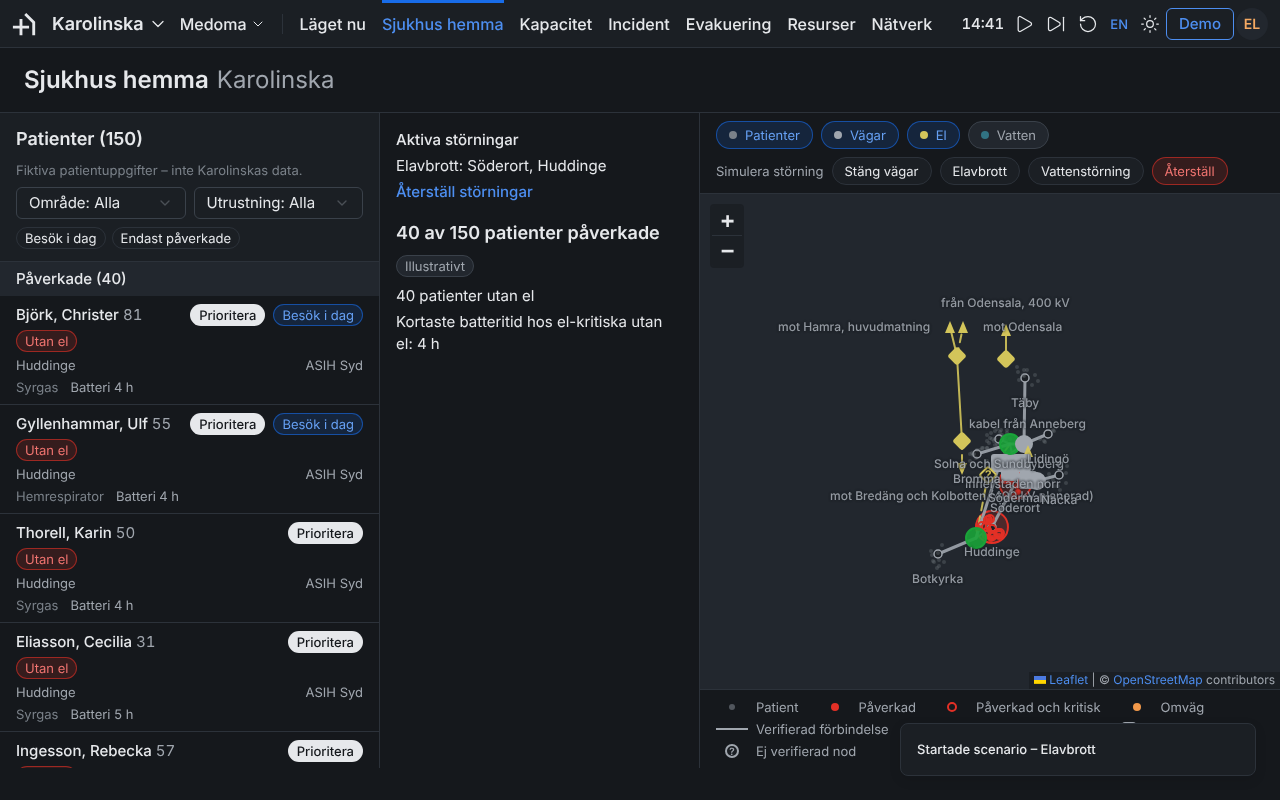
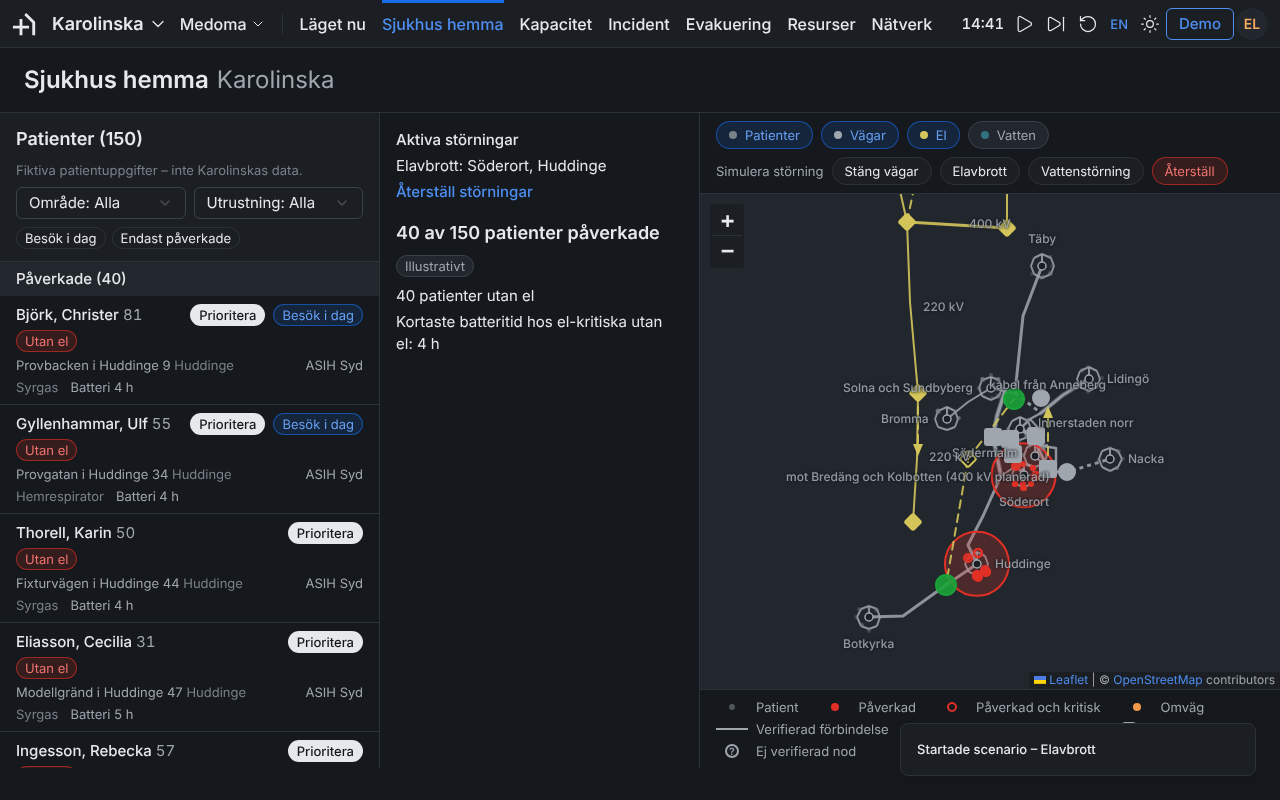
feat(geo): batch 9 – patients on streets, polish
Street and house number in the patient list, ODbL attribution with OpenStreetMap data, the map
fits the zones with 24 px padding and hand-placed zone labels, screenshots retaken, README step 6
describes the real map and the fetch commands.

Claude-Session: https://claude.ai/code/session_01EDzeoYWw7eD9LnFvtsjXbC

diff --git a/src/components/NodeMap.tsx b/src/components/NodeMap.tsx
@@ -7,7 +7,8 @@ import { t, tm } from '@/lib/i18n';
 import { fmt } from '@/lib/format';
 import { cssColor, useTheme } from '@/lib/theme';
 import { cn } from '@/lib/utils';
-import { HomeMapLayers, homeFitPoints, type HomeOverlay } from './HomeMapLayers';
+import { HomeMapLayers, type HomeOverlay } from './HomeMapLayers';
+import { homeFitPoints } from '@/lib/home-geo';
 
 interface NodeMapProps {
   nodes: CareNode[];
@@ -16,6 +17,10 @@ interface NodeMapProps {
   center?: [number, number];
   zoom?: number;
   className?: string;
+  /** Pixels of padding when the map fits its points; 40 by default, 24 on Hospital at Home. */
+  fitPadding?: number;
+  /** Extra attribution after the tile attribution (the ODbL text for OpenStreetMap data). */
+  attributionExtra?: string;
   /** Wheel zoom; off on the pages that scroll, on for Hospital at Home where the inner-city nodes are close together. */
   scrollWheelZoom?: boolean;
   onSelect?: (nodeId: string) => void;
@@ -23,7 +28,7 @@ interface NodeMapProps {
   home?: HomeOverlay;
 }
 
-function FitBounds({ nodes, extra, center, zoom }: { nodes: CareNode[]; extra?: Array<[number, number]>; center?: [number, number]; zoom?: number }) {
+function FitBounds({ nodes, extra, center, zoom, padding }: { nodes: CareNode[]; extra?: Array<[number, number]>; center?: [number, number]; zoom?: number; padding: number }) {
   const map = useMap();
   useEffect(() => {
     if (center) {
@@ -39,7 +44,7 @@ function FitBounds({ nodes, extra, center, zoom }: { nodes: CareNode[]; extra?: 
         [Math.min(...lats), Math.min(...lngs)],
         [Math.max(...lats), Math.max(...lngs)],
       ],
-      { padding: [40, 40], animate: false },
+      { padding: [padding, padding], animate: false },
     );
     // Fit once per node set size; later node additions re-fit.
     // eslint-disable-next-line react-hooks/exhaustive-deps
@@ -51,7 +56,7 @@ function FitBounds({ nodes, extra, center, zoom }: { nodes: CareNode[]; extra?: 
  * DESIGN-KS.md § 8 maps: OpenStreetMap tiles, circle markers (radius 10) coloured by status and labelled
  * with the short name; ASIH as a soft 25 km circle centred on Stockholm with its label at the top.
  */
-export function NodeMap({ nodes, selectedId, lineFrom, center, zoom, className, scrollWheelZoom = false, onSelect, home }: NodeMapProps) {
+export function NodeMap({ nodes, selectedId, lineFrom, center, zoom, className, scrollWheelZoom = false, fitPadding = 40, attributionExtra, onSelect, home }: NodeMapProps) {
   // Leaflet paints SVG paths with literal colours: resolve the tokens for the current theme.
   useTheme((s) => s.theme);
   const PRIMARY = cssColor('--color-primary');
@@ -60,11 +65,11 @@ export function NodeMap({ nodes, selectedId, lineFrom, center, zoom, className, 
   const areas = nodes.filter((n) => n.radiusKm !== undefined);
   const selected = nodes.find((n) => n.id === selectedId);
   const from = nodes.find((n) => n.id === lineFrom);
-  const fitExtra = useMemo(() => (home ? homeFitPoints(home, markers) : undefined), [home, markers]);
+  const fitExtra = useMemo(() => (home ? homeFitPoints(home) : undefined), [home]);
   return (
     <MapContainer center={center ?? [59.35, 18.0]} zoom={zoom ?? 9} scrollWheelZoom={scrollWheelZoom} className={cn('h-full w-full', className)} attributionControl>
-      <TileLayer attribution={t('EVAC.map.attribution')} url="https://tile.openstreetmap.org/{z}/{x}/{y}.png" />
-      <FitBounds nodes={markers} extra={fitExtra} center={center} zoom={zoom} />
+      <TileLayer key={attributionExtra ?? ''} attribution={attributionExtra ? `${t('EVAC.map.attribution')} | ${attributionExtra}` : t('EVAC.map.attribution')} url="https://tile.openstreetmap.org/{z}/{x}/{y}.png" />
+      <FitBounds nodes={home ? [] : markers} extra={fitExtra} center={center} zoom={zoom} padding={fitPadding} />
       {areas.map((n) => {
         const isSelected = n.id === selectedId;
         return (

diff --git a/src/components/HomeMapLayers.tsx b/src/components/HomeMapLayers.tsx
@@ -4,7 +4,7 @@ import { Circle, CircleMarker, Marker, Polyline, Tooltip, useMapEvents } from 'r
 import type { CareNode, HomePatient, HomeZone, InfraLayer, InfraLink, InfraNode } from '@/data/types';
 import type { HomeLayerKey, HomeMode } from '@/data/store-home';
 import { lt, t, tm } from '@/lib/i18n';
-import { isSchematic, linkedVertices, offmapEnd, offmapRotation, offmapSlots, vertexPositions, type LatLng } from '@/lib/home-geo';
+import { isSchematic, linkedVertices, offmapEnd, offmapRotation, offmapSlots, vertexPositions } from '@/lib/home-geo';
 import { cssColor } from '@/lib/theme';
 import type { RoadCollection, RoadProps } from '@/lib/roadGraph';
 import { RoadsLayer } from './RoadsLayer';
@@ -50,24 +50,21 @@ export const LAYER_TOKEN: Record<InfraLayer, string> = {
   roads: '--color-text-secondary',
 };
 
+// Zone labels sit on alternating sides of their point so that the zones in the dense middle do not cover each other.
+const ZONE_LABEL: Record<string, { direction: 'left' | 'right' | 'top' | 'bottom'; offset: [number, number] }> = {
+  solna: { direction: 'left', offset: [-6, 0] },
+  innerstaden: { direction: 'right', offset: [6, -6] },
+  bromma: { direction: 'left', offset: [-6, 0] },
+  sodermalm: { direction: 'left', offset: [-6, -3] },
+  soderort: { direction: 'bottom', offset: [0, 6] },
+  huddinge: { direction: 'right', offset: [6, 0] },
+  botkyrka: { direction: 'bottom', offset: [0, 6] },
+  nacka: { direction: 'right', offset: [6, 0] },
+  lidingo: { direction: 'right', offset: [6, 0] },
+  taby: { direction: 'top', offset: [0, -6] },
+};
 const DASH_SCHEMATIC = '8 6';
 const DASH_DOTTED = '2 6';
-
-/** Every point the page should fit in view: zones with their radius, infrastructure markers, sites and arrow ends. */
-export function homeFitPoints(overlay: HomeOverlay, sites: CareNode[]): LatLng[] {
-  const points: LatLng[] = sites.map((s) => [s.lat, s.lng]);
-  for (const z of overlay.zones) points.push([z.lat, z.lng]);
-  for (const n of overlay.infraNodes) if (!n.noMarker) points.push([n.lat, n.lng]);
-  for (const l of overlay.powerLines ?? []) points.push(...l.positions);
-  const positions = vertexPositions(sites, overlay.zones, overlay.infraNodes);
-  const slots = offmapSlots(overlay.infraLinks);
-  for (const l of overlay.infraLinks) {
-    const from = positions.get(l.a);
-    const slot = slots.get(l.id);
-    if (l.offmap && from && slot) points.push(offmapEnd(from, l.offmap.dir, slot.k, slot.n));
-  }
-  return points;
-}
 
 const iconCache = new Map<string, L.DivIcon>();
 
@@ -226,7 +223,7 @@ export function HomeMapLayers({ overlay, sites }: HomeMapLayersProps) {
             pathOptions={{ color: NEUTRAL, weight: 1.5, fillColor: SURFACE, fillOpacity: dim ? 0.3 : 1, opacity: dim ? 0.3 : 1 }}
             interactive={false}
           >
-            <Tooltip permanent direction="bottom" offset={[0, 4]} className={dim ? 'home-map-label home-map-label-dim' : 'home-map-label'}>
+            <Tooltip permanent direction={(ZONE_LABEL[z.id] ?? { direction: 'bottom' }).direction} offset={(ZONE_LABEL[z.id] ?? { offset: [0, 4] }).offset} className={dim ? 'home-map-label home-map-label-dim' : 'home-map-label'}>
               {lt(z.name)}
             </Tooltip>
           </CircleMarker>

diff --git a/src/data/packs/home-patients.test.ts b/src/data/packs/home-patients.test.ts
@@ -1,0 +1,62 @@
+import { beforeAll, describe, expect, it } from 'vitest';
+import { KAROLINSKA_PACK as pack } from './karolinska';
+import { loadGeoData, type GeoData } from '@/lib/geoData';
+import { homeFitPoints } from '@/lib/home-geo';
+
+let geo: GeoData;
+beforeAll(async () => {
+  geo = await loadGeoData();
+});
+
+const km = (aLat: number, aLng: number, bLat: number, bLng: number) => Math.hypot((bLat - aLat) * 111.32, (bLng - aLng) * 111.32 * Math.cos((aLat * Math.PI) / 180));
+
+describe('patients on streets (SPEC.md § 12.5)', () => {
+  it('gives every patient a street and a house number of 1–60', () => {
+    for (const p of pack.homePatients) {
+      expect(p.street.length, p.id).toBeGreaterThan(0);
+      expect(Number.isInteger(p.houseNo) && p.houseNo >= 1 && p.houseNo <= 60, p.id).toBe(true);
+    }
+  });
+
+  it('puts all 150 on a vertex of a street of that name within the zone radius', () => {
+    expect(pack.homePatients).toHaveLength(150);
+    const streets = geo.streets.features;
+    for (const p of pack.homePatients) {
+      const zone = pack.homeZones.find((z) => z.id === p.zone)!;
+      expect(km(zone.lat, zone.lng, p.lat, p.lng), p.id).toBeLessThanOrEqual(zone.radiusKm);
+      const onStreet = streets.some((s) => s.properties.name === p.street && s.geometry.coordinates.some(([lng, lat]) => lat === p.lat && lng === p.lng));
+      expect(onStreet, `${p.id} on ${p.street}`).toBe(true);
+    }
+  });
+
+  it('places each patient in the zone whose centre is nearest, so that no patient lives in a neighbouring zone', () => {
+    for (const p of pack.homePatients) {
+      const own = pack.homeZones.find((z) => z.id === p.zone)!;
+      for (const z of pack.homeZones) expect(km(p.lat, p.lng, own.lat, own.lng), `${p.id} vs ${z.id}`).toBeLessThanOrEqual(km(p.lat, p.lng, z.lat, z.lng) + 1e-6);
+    }
+  });
+
+  it('keeps the attributes the earlier tests pin: 20 Huddinge patients, a visit share and el-critical patients', () => {
+    expect(pack.homePatients.filter((p) => p.zone === 'huddinge')).toHaveLength(20);
+    expect(pack.homePatients.filter((p) => p.visitToday)).toHaveLength(66);
+    expect(pack.homePatients.filter((p) => p.zone === 'huddinge' && p.elCritical).map((p) => p.batteryHours)).toContain(4);
+  });
+});
+
+describe('the map fits the zones (SPEC.md § 12.6 batch 9)', () => {
+  it('fits the box around every zone circle and nothing else', () => {
+    const pts = homeFitPoints({ zones: pack.homeZones });
+    expect(pts).toHaveLength(pack.homeZones.length * 2);
+    const lats = pts.map((p) => p[0]);
+    const lngs = pts.map((p) => p[1]);
+    for (const z of pack.homeZones) {
+      expect(Math.min(...lats)).toBeLessThanOrEqual(z.lat - z.radiusKm / 111.32 + 1e-9);
+      expect(Math.max(...lats)).toBeGreaterThanOrEqual(z.lat + z.radiusKm / 111.32 - 1e-9);
+      expect(Math.min(...lngs)).toBeLessThanOrEqual(z.lng);
+      expect(Math.max(...lngs)).toBeGreaterThanOrEqual(z.lng);
+    }
+    // Täby is the northernmost zone, Botkyrka the southernmost.
+    expect(Math.max(...lats)).toBeCloseTo(59.4451 + 2.5 / 111.32, 4);
+    expect(Math.min(...lats)).toBeCloseTo(59.1988 - 2.5 / 111.32, 4);
+  });
+});

diff --git a/src/modules/home/HomeMap.tsx b/src/modules/home/HomeMap.tsx
@@ -18,6 +18,8 @@ export function HomeMap({ impact, geo }: { impact: Impact; geo: GeoData | null }
   const nodes = useStore((s) => s.nodes);
   const home = useStore((s) => s.home);
   const infraNodes = home.infraNodes;
+  // The ODbL attribution is for OpenStreetMap data; the fixture that stands in for it is not OpenStreetMap's.
+  const osmData = geo !== null && Object.values(geo.source).includes('osm');
   const lines = useMemo(() => (geo ? powerLines(geo) : []), [geo]);
   const selectHomeNode = useStore((s) => s.selectHomeNode);
   const toggleBlockedNode = useStore((s) => s.toggleBlockedNode);
@@ -78,7 +80,7 @@ export function HomeMap({ impact, geo }: { impact: Impact; geo: GeoData | null }
         <ModeChips />
       </div>
       <div className="min-h-0 flex-1" role="region" aria-label={t('HOME.mapAria')}>
-        <NodeMap nodes={sites} home={overlay} scrollWheelZoom className="h-full" />
+        <NodeMap nodes={sites} home={overlay} scrollWheelZoom fitPadding={24} attributionExtra={osmData ? t('HOME.attribution') : undefined} className="h-full" />
       </div>
       <div className="border-t border-border px-4 py-2">
         <MapLegend />

diff --git a/src/lib/home-geo.ts b/src/lib/home-geo.ts
@@ -72,3 +72,17 @@ export function linkedVertices(id: string, links: InfraLink[]): Set<string> {
 export function linksOf(id: string, links: InfraLink[]): InfraLink[] {
   return links.filter((l) => l.a === id || l.b === id);
 }
+
+/**
+ * What the map fits on load (SPEC.md § 12.6 batch 9): the ten zones, each as the box around its circle. Sites, markers and
+ * arrow tips outside that are left to the user, so that the zone labels get the room.
+ */
+export function homeFitPoints(overlay: { zones: HomeZone[] }): LatLng[] {
+  const points: LatLng[] = [];
+  for (const z of overlay.zones) {
+    const dLat = z.radiusKm / 111.32;
+    const dLng = z.radiusKm / (111.32 * Math.cos((z.lat * Math.PI) / 180));
+    points.push([z.lat - dLat, z.lng - dLng], [z.lat + dLat, z.lng + dLng]);
+  }
+  return points;
+}

diff --git a/src/modules/home/HomePatientList.tsx b/src/modules/home/HomePatientList.tsx
@@ -63,7 +63,10 @@ function PatientRow({ p, row }: { p: HomePatient; row?: ImpactRow }) {
         </div>
       ) : null}
       <div className="flex items-center gap-3 text-small text-text-secondary">
-        <span className="truncate">{lt(zone.name)}</span>
+        <span className="truncate">
+          {p.street} {p.houseNo}
+          <span className="text-text-muted"> {lt(zone.name)}</span>
+        </span>
         <span className="ml-auto whitespace-nowrap">{p.team}</span>
       </div>
       <div className="text-small text-text-muted">

diff --git a/src/data/vocab.ts b/src/data/vocab.ts
@@ -735,6 +735,7 @@ export const sv = {
       tunnel: 'Tunnel',
     },
     unverified: 'Ej verifierad',
+    attribution: 'Väg- och elnätsdata © OpenStreetMap contributors, ODbL',
     legend: {
       title: 'Teckenförklaring',
       patient: 'Patient',
@@ -1654,6 +1655,7 @@ export const en: Vocab = {
       tunnel: 'Tunnel',
     },
     unverified: 'Not verified',
+    attribution: 'Road and power data © OpenStreetMap contributors, ODbL',
     legend: {
       title: 'Legend',
       patient: 'Patient',

diff --git a/README.md b/README.md
@@ -24,7 +24,9 @@ Kräver Node 22. Minsta bredd 1280 px. Kartunderlaget hämtas från OpenStreetMa
 | `src/data/packs/types.ts` | Domänmodellen och `DataPack`-gränssnittet. |
 | `src/data/vocab.ts` | Alla svenska UI-strängar och etiketter för enum-värden. |
 | `src/data/store*.ts` | Zustand-store med slices för incident, evakuering, resurser, nätverk, Läget nu och scenario. Varje tillståndsändring loggas med scenarioklockans tid. |
-| `src/lib/` | Rena moduler med tester: `forecast.ts`, `placement.ts`, `scenario.ts`, `flow.ts`, `capacity.ts`, `suggest.ts`, `parse.ts`, `figure.ts`, `format.ts`, `reachability.ts` (nåbarhet och påverkan för Sjukhus hemma). |
+| `src/data/packs/geo/` | OpenStreetMap-data (`roads.json`, `streets.json`, `power.json`, `water.json`) eller, tills de hämtats, fixturen. README där anger källa, datum och ODbL. |
+| `scripts/` | `fetch-osm.mjs` (Overpass till GeoJSON, `npm run fetch:osm`), `overpass/*.overpassql`, `generate-patients.mjs`, `make-geo-fixtures.mjs`. |
+| `src/lib/` | Rena moduler med tester: `forecast.ts`, `placement.ts`, `scenario.ts`, `flow.ts`, `capacity.ts`, `suggest.ts`, `parse.ts`, `figure.ts`, `format.ts`, `reachability.ts` och `roadGraph.ts` (väggraf, Dijkstra och påverkan för Sjukhus hemma), `osmNodes.ts`. |
 | `src/modules/` | Sidorna: `start`, `flow` (Läget nu), `home` (Sjukhus hemma), `capacity`, `incident`, `evacuation`, `resources`, `network`, `sources` (Källor), `scenario` (panelen). |
 | `DATA.md` | Läsbar källa för datapaketet med källförteckning (S1–S22). |
 | `SPEC.md`, `DESIGN.md`, `DESIGN-KS.md` | Beteende och utseende. |
@@ -106,14 +108,16 @@ Klicka **Starta kapitel** på Regional omfördelning. Nätverk öppnas för Regi
 
 ### Steg 6 – Sjukhus hemma
 
-Sjukhus hemma ligger i navigationen direkt efter Läget nu (`/home`). Det är inget kapitel på startsidan utan ett sjätte steg som visas efter de fem, eller på egen hand. De 150 patienterna är fiktiva och märkta så; antalet bär chipet Illustrativt. Kartans noder och förbindelser kommer från DATA.md § 11; vägarnas dragning är schematisk och noder som inte är verifierade är ihåliga med ett frågetecken.
+Sjukhus hemma ligger i navigationen direkt efter Läget nu (`/home`). Det är inget kapitel på startsidan utan ett sjätte steg som visas efter de fem, eller på egen hand. De 150 patienterna är fiktiva och märkta så, de bor på gator (gatunamn och husnummer är illustrativa) och antalet bär chipet Illustrativt.
 
-- Öppna **Sjukhus hemma**. Kartan visar de 150 patienterna som svaga prickar och vägar och broar. Slå på **El** och **Vatten** i chipraden ovanför kartan: heldragna linjer är verifierade förbindelser, streckade är schematiska, och pilar visar vart ledningar fortsätter utanför kartan. Regionnätet (70–220 kV) är det enda ihåliga: det är luckan att fylla först, och panelen säger det med röd text.
+**Den riktiga kartan.** Vägnätet (motorväg till sekundärväg), broar, tunnlar, 400/220 kV-stationer och -ledningar och vattenverk kommer från OpenStreetMap, inte från handritade korridorer. Datafilerna hämtas lokalt med `npm run fetch:osm` (det enda som anropar internet, och bara Overpass) och checkas in; kör därefter `node scripts/generate-patients.mjs` så att patienterna hamnar på de riktiga gatorna. Tills filerna finns använder appen en handritad fixtur med samma schema: kartan, broarna och beräkningarna fungerar, men positionerna är påhittade och elnodernas lägen står som Illustrativt. Med riktiga data står de som Uppgift med källan "OpenStreetMap, datum", och kartans källrad får ODbL-texten.
+
+- Öppna **Sjukhus hemma**. Kartan passas mot de tio zonerna. Slå på **El** och **Vatten**: heldragna linjer är verifierade förbindelser, streckade är schematiska, elledningarna bär sin spänning (400 kV, 220 kV) och pilar visar vart ledningar fortsätter utanför kartan. Regionnätet (70–220 kV) är det enda ihåliga: det är luckan att fylla först, och panelen säger det med röd text.
 - Klicka på en nod, till exempel Essingeleden: allt som inte hänger ihop med den tonas ned, och mittpanelen visar vad noden är, vad den är kopplad till, status och uppgifter med chip och källa (140 000–170 000 fordon per dygn, S-H12). Källorna S-H1–S-H14 finns på Källor.
-- Öppna Kapacitet, **Scenario**, och välj **Bro avstängd** under Sjukhus hemma, **Starta**. Essingeleden och Centralbron stängs: 0 av 150 patienter påverkade, men de 10 i Nacka nås via omväg, eftersom Södra länken inte längre nås över Essingeleden. Det första budskapet: en avstängd bro kostar tid, inte täckning, så länge det finns en väg runt.
-- Klicka **Stäng vägar** och stäng Västerbron, Liljeholmsbron och Skanstullsbron på kartan (eller välj en vägförbindelse). Vid omfattningen Karolinska nås Söderort, Huddinge, Botkyrka och Nacka fortfarande från Huddinge; bara Södermalm (15 patienter) är avskuret från båda siterna. Byt till **Karolinska Solna** uppe till vänster: nu är 75 patienter inte nåbara med bil, och listan till vänster sorteras med besök i dag och el-kritiska först, märkta Prioritera. Varje stängning och öppning loggas (Kapacitet, Logg) med antalet påverkade.
-- Välj **Elavbrott** (scenario eller knappen **Elavbrott** ovanför kartan): Söderort och Huddinge, 40 patienter utan el och kortaste batteritid hos el-kritiska 4 h. Det är batteritiden, inte avståndet, som avgör ordningen. **Vattenstörning** sätter vattnet ur drift i Solna och Sundbyberg (25 patienter). Knappen **Återställ** rensar allt.
-- Säg vad som är verifierat och inte: broar, vägar och verk finns i öppna källor; koordinater som inte kunde läsas exakt är markerade Estimat; antalet patienter, deras utrustning och batteritider är illustrativa. Vill man koppla på riktiga uppgifter är nästa steg att fylla regionnätet och Lovö/Norsborgs försörjningsområde.
+- Klicka **Stäng vägar** och tryck på ett vägsegment på kartan: det segmentet (en OSM-väg) stängs och ritas i varningsfärg; tryck igen för att öppna det. Slå på **Blockera hela vägen** och tryck på en bro eller en motorväg: alla vägar med samma namn stängs. Namngivna broar och tunnlar (markörerna) stänger sina vägnamn. Patientlistan till vänster och panelen uppdateras direkt, och varje stängning loggas (Kapacitet, Logg) med antalet påverkade. Beräkningen går på vägnätet: en patient är onåbar om ingen väg finns från siten i omfattningen, och försenad om den kortaste vägen blivit minst 25 % eller 3 km längre.
+- Välj **Bro avstängd** under Sjukhus hemma i Kapacitet, **Scenario**, **Starta** (Essingeleden och Centralbron), och stäng sedan Västerbron, Munkbroleden, Skeppsbron, Söderledstunneln, Katarinavägen och Stadsgårdsleden. Byt till **Karolinska Solna** uppe till vänster: patienterna söder om Saltsjö–Mälaren blir onåbara med bil och listan sorteras med besök i dag och el-kritiska först, märkta Prioritera. Vid omfattningen Karolinska nås de söderifrån, från Huddinge. Antalen beror på vägdata; läs av dem i appen.
+- Välj **Elavbrott** (scenario eller knappen ovanför kartan): Söderort och Huddinge, 40 patienter utan el och kortaste batteritid hos el-kritiska 4 h. Det är batteritiden, inte avståndet, som avgör ordningen. **Vattenstörning** sätter vattnet ur drift i Solna och Sundbyberg (25 patienter). Knappen **Återställ** rensar allt.
+- Säg vad som är verifierat och inte: vägar, broar, stationer och verk är OpenStreetMap-data (Uppgift, med datum); fullständigheten är inte kontrollerad mot NVDB eller Svenska kraftnät; trafikuppgifter, patientantal, utrustning, batteritider och gatuplacering är illustrativa.
 
 ### Utanför kapitlen
 

diff --git a/DECISIONS.md b/DECISIONS.md
@@ -613,3 +613,13 @@ Spec: SPEC.md § 12.5, DATA.md § 12
 Decision: Kolbotten's role and status say only what DATA.md § 11.2 and its sources say (the name appears as the destination of the planned 400 kV lines from Beckomberga, S-H7 and S-H9; the station's own role and the timeline are "to verify"); the node is `verified: true` (it is not hollow) and its position carries the confidence of the match. The hand-drawn el link Överby–Beckomberga is deleted and `power.json` lines are drawn in the el layer as polylines (3 px for 400 kV, 2 px otherwise, 30 % opacity while a node is selected) with a permanent label "400 kV", "220 kV" or "400/220 kV"; the off-map arrows and the two `e-regionnat` links stay. DATA.md § 11.1–11.2 is updated in place: the five estimate bases are replaced by the OpenStreetMap matches, the Kolbotten note says it is added from OpenStreetMap, and the intro says what a node without a match and the fixture do.
 Rejected: A Kolbotten position typed in from memory – none is established; keeping the hand-drawn link next to the real lines – two lines for one connection.
 Spec: SPEC.md § 12.5, DATA.md § 11.2
+
+## 2026-11-03 – Batch 9 – The ODbL attribution appears with OpenStreetMap data, not with the fixture
+Decision: The tile layer always carries the OpenStreetMap attribution. On `/home` the text "Väg- och elnätsdata © OpenStreetMap contributors, ODbL" is added after it when at least one of the four geometry files comes from OpenStreetMap; while only the fixture is loaded it is not, because the fixture is not OpenStreetMap's data and claiming it would be false. `geo/README.md` carries the attribution in both states. `NodeMap` gets the optional props `attributionExtra` and `fitPadding`.
+Rejected: Showing the ODbL text on the fixture – misattribution; leaving it out when data arrives – the licence requires it.
+Spec: SPEC.md § 12.2, § 12.6 batch 9
+
+## 2026-11-03 – Batch 9 – The map fits the zones, with labels placed by hand, and the list shows the street
+Decision: On load `/home` fits the box around the ten zone circles (`homeFitPoints`, 24 px padding) and nothing else; sites, markers, lines and arrows outside it are reachable by panning. The zone labels sit on chosen sides of their points (left, right, above, below, with small offsets); at 1 280 px, where the map pane is 580 px wide, the ten labels do not overlap, which fitting alone does not achieve for the dense middle (Solna, Innerstaden, Södermalm, Söderort). A patient row shows "Street 12" followed by the zone's name in muted text, then the team; the zone stays because the list is flat when a disruption is active. The fixture's street names read "Provgatan i Solna" because they are not real streets. Screenshots in `docs/screenshots/home/` are retaken (seven, as before) and show the fixture map without tiles. README step 6 is rewritten for the real map, the fetch and generator commands and the road interaction; it quotes no counts that depend on the road data.
+Rejected: A label-collision library – ten labels; quoting counts from the fixture in the README – they change with the real data.
+Spec: SPEC.md § 12.6 batch 9
